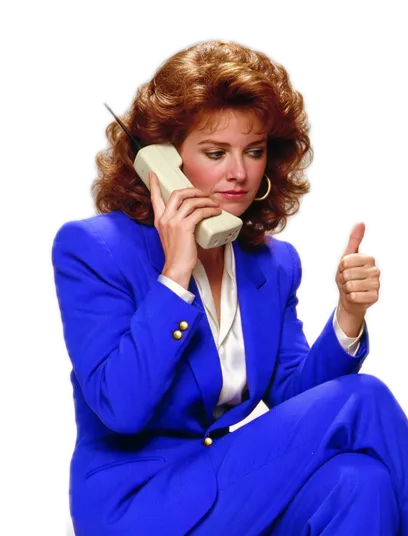
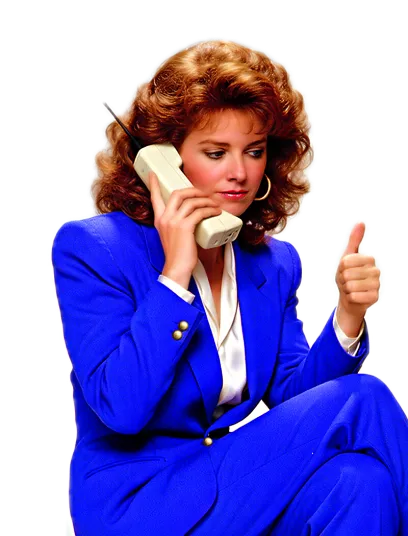
Match Carousel's scale; 2x figure set and an editorial grade for a sharper face

Changed region(s): [[0.1176, 0.0597, 1.0, 1.0], [0.4706, 0.4478, 0.5, 0.4776]]

diff --git a/index.html b/index.html
@@ -11,8 +11,8 @@
   <link rel="preconnect" href="https://fonts.googleapis.com">
   <link rel="preconnect" href="https://fonts.gstatic.com" crossorigin>
   <link rel="stylesheet" href="https://fonts.googleapis.com/css2?family=Hanken+Grotesk:wght@400;500;600;800;900&family=JetBrains+Mono:wght@500;600&family=Newsreader:ital,opsz,wght@0,6..72,400;1,6..72,400&display=swap">
-  <link rel="preload" as="image" href="assets/lady/body.webp" fetchpriority="high">
-  <link rel="preload" as="image" href="assets/lady/head-centre.webp">
+  <link rel="preload" as="image" href="assets/lady/body.webp" imagesrcset="assets/lady/body.webp 1x, assets/lady/2x/body.webp 2x" fetchpriority="high">
+  <link rel="preload" as="image" href="assets/lady/head-centre.webp" imagesrcset="assets/lady/head-centre.webp 1x, assets/lady/2x/head-centre.webp 2x">
   <link rel="stylesheet" href="styles.css">
 </head>
 <body>
@@ -30,14 +30,14 @@
         <p class="tag"><span data-slot="tag">For dealer F&amp;I</span></p>
 
         <h1 class="headline" id="headline">
-          <span class="line" data-slot="lead">Clear the stips</span>
-          <span class="line">while they
+          <span class="line"><span data-slot="lead">Clear the stips</span> while they</span>
+          <span class="line">
             <span class="rotor" aria-hidden="true"><span class="rotor-clip" data-slot="rotor"><em class="is-on">scan their ID</em><em>connect their bank</em><em>prove their address</em><em>confirm their job</em><em>sign the consent</em></span></span>
             <span class="visually-hidden" data-slot="rotor-said">scan their ID, connect their bank, prove their address, confirm their job and sign the consent</span>
           </span>
         </h1>
 
-        <p class="sub" data-slot="sub">Your buyer verifies ID, income and credit on their own phone, right at your desk. You send the lender one decision-ready file before they leave the lot.</p>
+        <p class="sub" data-slot="sub">Your buyer verifies on their own phone. You send the lender one decision-ready file.</p>
 
         <div class="actions">
           <a class="btn-key" href="https://oncarousel.com/book-a-demo/" data-slot="cta" data-event="book_demo_click">Book a demo <span class="arrow" aria-hidden="true">→</span></a>
@@ -62,10 +62,10 @@
       <div class="visual" data-slot="visual">
         <div class="lady" data-slot="lady">
           <div class="lady-tilt">
-            <img class="lady-body" data-slot="image" src="assets/lady/body.webp" width="1200" height="906"
+            <img class="lady-body" data-slot="image" src="assets/lady/body.webp" srcset="assets/lady/body.webp 1x, assets/lady/2x/body.webp 2x" width="1200" height="907"
                  alt="A 1980s finance manager in an electric blue power suit sits on a wide mound of manila deal folders, on a brick phone, giving a thumbs-up.">
             <div class="lady-head" aria-hidden="true">
-              <img data-gaze="centre" class="is-on" src="assets/lady/head-centre.webp" alt="">
+              <img data-gaze="centre" class="is-on" src="assets/lady/head-centre.webp" srcset="assets/lady/head-centre.webp 1x, assets/lady/2x/head-centre.webp 2x" alt="">
               <img data-gaze="G1" alt="">
               <img data-gaze="G2" alt="">
               <img data-gaze="G4" alt="">

diff --git a/styles.css b/styles.css
@@ -19,9 +19,11 @@
 
   /* Type scales with BOTH width and height, so a short window shrinks the copy instead of
      pushing the ticker off the fold. */
-  --h1: clamp(34px, min(4.4vw, 7.2vh), 64px);
-  --lede: clamp(16px, min(1.5vw, 2.5vh), 21px);
-  --nav-h: 70px;
+  /* Sized to Carousel's auto-finance hero (measured 2026-10-15): H1 62px desktop / 27px phone, 2 lines,
+     no long subhead, 16px buttons 48px tall, 57px nav. Height-aware so short windows shrink too. */
+  --h1: clamp(28px, min(4.3vw, 7.4vh), 62px);
+  --lede: clamp(15px, min(1.2vw, 2.1vh), 17px);
+  --nav-h: 57px;
   --tick-h: 46px;
   --gut: clamp(16px, 4vw, 48px);
   --wrap: 1240px;
@@ -57,7 +59,7 @@ a:focus-visible { outline: 2px solid var(--acc); outline-offset: 3px; }
 .nav-link { font-size: 15px; font-weight: 500; color: var(--ink-soft); text-decoration: none; }
 @media (max-width: 480px) { .nav-link { display: none; } }
 .btn-pill {
-  display: inline-flex; align-items: center; height: 38px; padding: 0 18px;
+  display: inline-flex; align-items: center; height: 36px; padding: 0 18px;
   border-radius: 999px; background: var(--ink); color: var(--bg);
   font-size: 15px; font-weight: 600; text-decoration: none;
 }
@@ -127,18 +129,18 @@ a:focus-visible { outline: 2px solid var(--acc); outline-offset: 3px; }
 }
 
 .sub {
-  margin: 20px 0 0; max-width: 32rem;
+  margin: clamp(10px, 1.8vh, 18px) 0 0; max-width: 30rem;
   font-size: var(--lede); line-height: 1.45; color: var(--ink-soft); text-wrap: pretty;
 }
 
-.actions { display: flex; flex-wrap: wrap; align-items: center; gap: 16px 24px; margin-top: clamp(18px, 3.6vh, 32px); }
+.actions { display: flex; flex-wrap: wrap; align-items: center; gap: 14px 22px; margin-top: clamp(14px, 2.6vh, 26px); }
 
 /* Chunky keyboard-key button, Carousel's closing-CTA treatment */
 .btn-key {
   display: inline-flex; align-items: center; gap: 10px;
-  height: 54px; padding: 0 26px; border-radius: 14px;
+  height: 48px; padding: 0 22px; border-radius: 14px;
   background: var(--black); color: #fff;
-  font-size: 17px; font-weight: 500; text-decoration: none;
+  font-size: 16px; font-weight: 500; text-decoration: none;
   box-shadow: inset 0 1px 0 rgba(255,255,255,.14), 0 3px 0 #000, 0 14px 24px -12px rgba(0,0,40,.6);
   transition: transform 120ms ease, box-shadow 120ms ease;
 }

diff --git a/hero.js b/hero.js
@@ -141,6 +141,12 @@ if (deal && !reduceMotion && "IntersectionObserver" in window) {
 }
 
 /* ---------- 3. character: gaze + wink ---------- */
+// Each head comes in 1x (1200px figure) and 2x (full 2352px) so her face stays sharp on retina screens,
+// as Carousel serves their hero in several densities.
+function setHead(img, name) {
+  img.srcset = `assets/lady/head-${name}.webp 1x, assets/lady/2x/head-${name}.webp 2x`;
+  img.src = `assets/lady/head-${name}.webp`;
+}
 const lady = $("[data-slot=lady]");
 const heads = Object.fromEntries($$(".lady-head img").map(img => [img.dataset.gaze, img]));
 let gaze = "centre", winking = false;
@@ -162,7 +168,7 @@ const canTrack = lady && !reduceMotion && matchMedia("(hover: hover) and (pointe
 if (canTrack) {
   // Load the other heads only once the page is idle, so they never compete with first paint.
   const loadHeads = () => Object.entries(heads).forEach(([name, img]) => {
-    if (name !== "centre" && !img.src) img.src = `assets/lady/head-${name}.webp`;
+    if (name !== "centre" && !img.src) setHead(img, name);
   });
   addEventListener("load", () => ("requestIdleCallback" in window ? requestIdleCallback(loadHeads) : setTimeout(loadHeads, 300)));
 
@@ -201,7 +207,7 @@ if (canTrack) {
    on every device (one ~25 KB file), only the gaze heads are desktop-only. No bounce. */
 if (lady && !reduceMotion) {
   const wink = heads.WINK;
-  const fetchWink = () => { if (!wink.src) wink.src = "assets/lady/head-WINK.webp"; };
+  const fetchWink = () => { if (!wink.src) setHead(wink, "WINK"); };
   addEventListener("load", () => setTimeout(fetchWink, 200));
   let winkT = 0;
   addEventListener("pointerdown", () => {

diff --git a/verticals.js b/verticals.js
@@ -10,7 +10,7 @@ export const VERTICALS = {
     lead: "Clear the stips",
     rotate: ["scan their ID", "connect their bank", "prove their address", "confirm their job", "sign the consent"],
     keys: ["ID", "Bank", "Address", "Job", "Credit"], // one keycap per phrase, same order
-    sub: "Your buyer verifies ID, income and credit on their own phone, right at your desk. You send the lender one decision-ready file before they leave the lot.",
+    sub: "Your buyer verifies on their own phone. You send the lender one decision-ready file.",
     cta: { label: "Book a demo", href: "https://oncarousel.com/book-a-demo/" },
     secondary: { label: "See a sample report", href: "https://oncarousel.com/assets/sample/screening-report-example.pdf" },
     quote: {
@@ -27,7 +27,7 @@ export const VERTICALS = {
     lead: "Approve the tenant",
     rotate: ["scan their ID", "connect the business bank", "prove the address", "confirm the business", "consent to credit"],
     keys: ["ID", "Bank", "Address", "Business", "Credit"],
-    sub: "The applicant proves who they are and what the business earns from their phone, in one sitting. Your credit desk reads one report instead of chasing statements.",
+    sub: "The applicant verifies from their phone. Your credit desk reads one report.",
     cta: { label: "Book a demo", href: "https://oncarousel.com/book-a-demo/" },
     secondary: { label: "See a sample report", href: "https://oncarousel.com/assets/sample/screening-report-example.pdf" },
     quote: {
